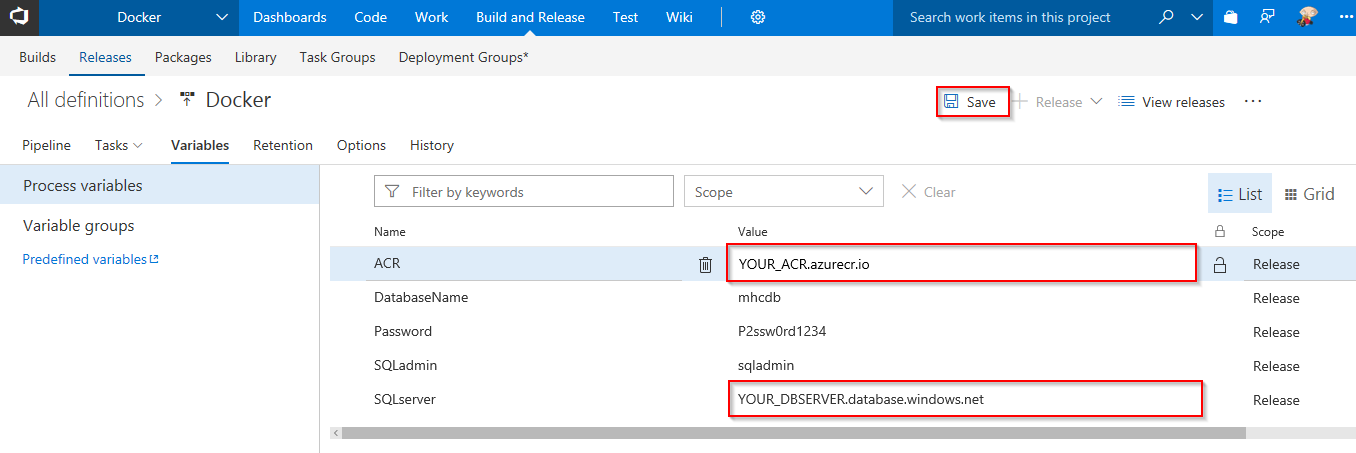
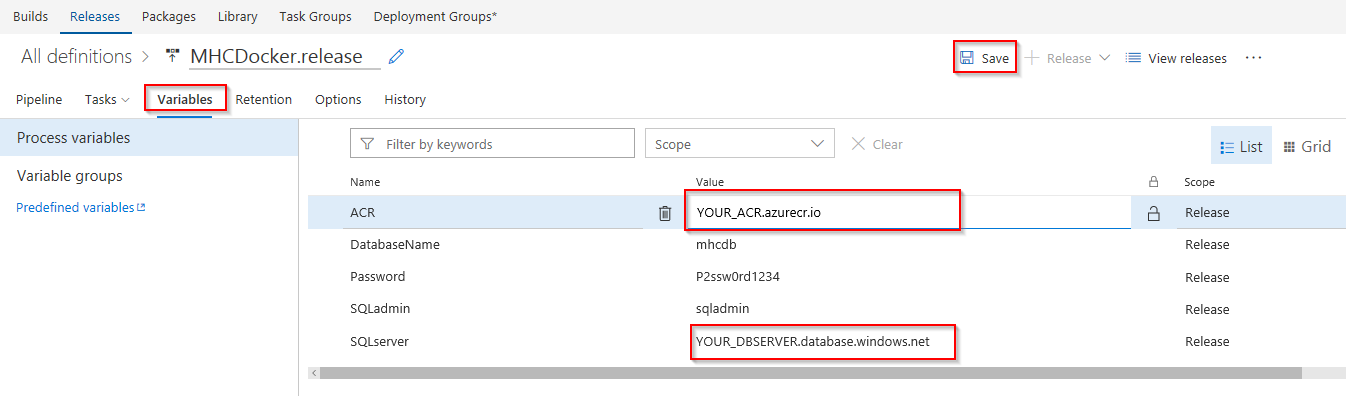
updated content

diff --git a/docker/readme.md b/docker/readme.md
@@ -120,7 +120,7 @@ Since the connections are not established during project provisioning, we will m
 
 >Note : If you encounter an error - ***TFS.WebApi.Exception: Page not found*** for Azure tasks in the build/ release definition, you can fix this by typing a random text in the Azure Subscription field and click the **Refresh** icon next to it. Once the field is refreshed, you can select the endpoint from the drop down. This is due to a recent change in the VSTS Release Management API. We are working on updating VSTS Demo Generator to resolve this issue.
 
-1. Go to **Builds** under **Build and Release** tab, **Edit** the build definition **Docker**.
+1. Go to **Builds** under **Build and Release** tab, **Edit** the build definition **MHCDocker.build**
 
    ![](images/build.png)
 
@@ -135,7 +135,7 @@ Since the connections are not established during project provisioning, we will m
    |![](images/icon.png) **Push services**| pushes **myhealth.web** image tagged with **$(Build.BuildId)** to container registry|
       |![](images/publish-build-artifacts.png) **Publish Build Artifacts**| used to share dacpac for database deployment through VSTS artifacts  |
 
-1. Go to **Releases** under **Build & Release** tab, **Edit** the release definition **Docker** and select **Tasks**.
+1. Go to **Releases** under **Build & Release** tab, **Edit** the release definition **MHCDocker.release** and select **Tasks**.
 
    ![](images/release.png)
 
@@ -145,8 +145,8 @@ Since the connections are not established during project provisioning, we will m
 
    |Phases|Usage|
    |------|-----|
-   |**DB deployment**|**Hosted VS2017** agent is used to create database schema along with pre-configured data in **mhcdb**|
-   |**Web App deployment**|**Hosted Linux Preview** agent is used to pull image from ACR and deploy in Linux Web App|
+   |**DB deployment**|**Hosted VS2017** agent is used to create database|
+   |**Web App deployment**|**Hosted Linux Preview** agent is used to deploy application to Linux Web App|
 
 1. Under **Execute Azure SQL:DacpacTask**, update **Azure Subscription** from the dropdown.
 
@@ -156,7 +156,7 @@ Since the connections are not established during project provisioning, we will m
 
 1. Under **Azure App Service Deploy** task, update **Azure subscription** and **Azure Service name** with the endpoint components from the dropdown.
 
-    **Azure App Service Deploy** will pull the appropriate image corresponding to the BuildID from repository specified, and deploys the image to Linux App Service. 
+    **Azure App Service Deploy** will pull the appropriate image corresponding to the BuildID from repository specified, and deploys the image to Linux App Service.
 
     ![](images/updatedrd.png)
 
